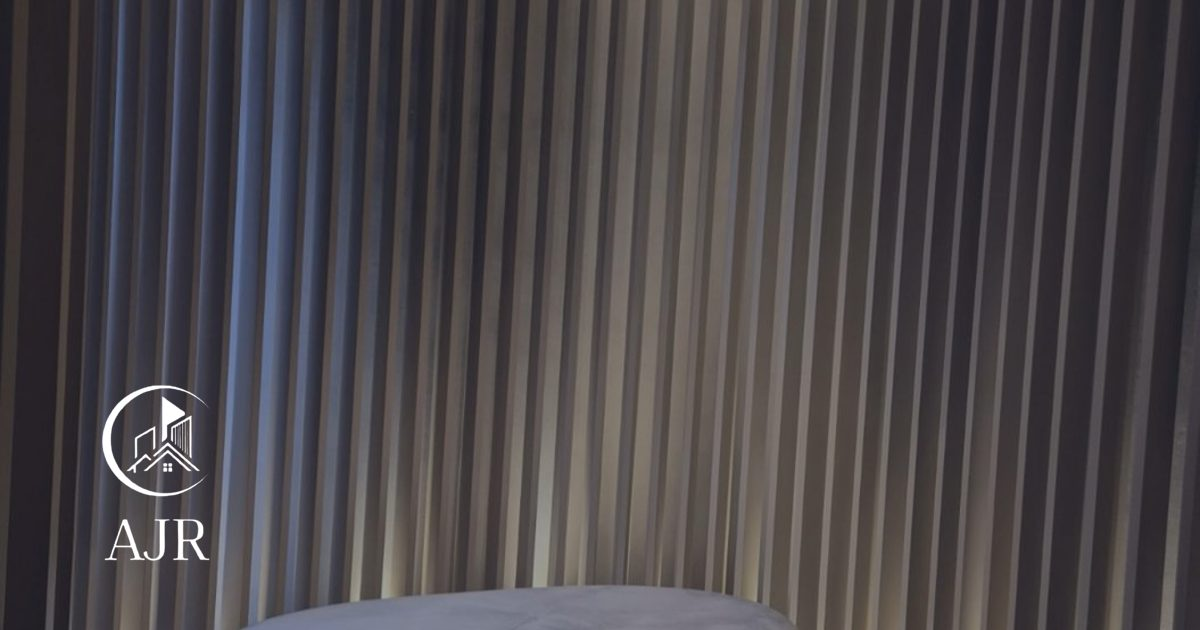
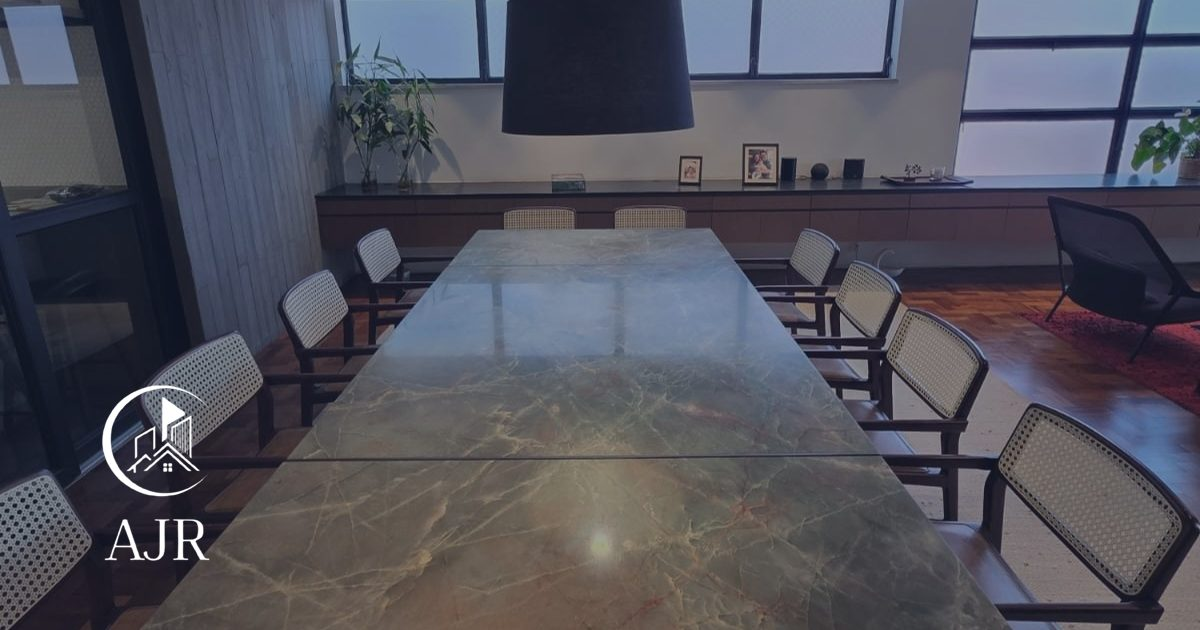
Atualiza LP AJR Marmoraria: novo hero, Melhores projetos, fotos em tela cheia, Apps Script e espaços de GTM/Pixel
Claude-Session: https://claude.ai/code/session_01AKqc3UcPqqKCYndbR5mZL6

diff --git a/assets/css/style.css b/assets/css/style.css
@@ -57,22 +57,26 @@ p{margin:0 0 1em}
 .nav a:hover::after{transform:scaleX(1)}
 
 /* Hero */
-.hero{display:grid;grid-template-columns:minmax(0,1.05fr) minmax(0,.95fr);min-height:100svh;background:var(--navy);color:var(--white)}
-.hero__text{padding:180px clamp(24px,6vw,96px) 72px;display:flex;flex-direction:column;justify-content:center;max-width:760px;margin-left:auto}
-.hero__kicker{color:var(--slate);font-size:.95rem;margin-bottom:1.2em}
-.hero h1{font-size:clamp(2.35rem,5.2vw,4.4rem);font-weight:600;letter-spacing:-.03em;margin-bottom:.45em;text-wrap:balance}
-.hero__lead{font-size:1.1rem;color:rgba(255,255,255,.8);max-width:36em}
-.hero__cta{display:flex;flex-wrap:wrap;gap:12px;margin:1.4em 0 2.6em}
-.hero__facts{display:grid;grid-template-columns:repeat(3,auto);gap:40px;margin:0;padding-top:30px;border-top:1px solid rgba(167,174,193,.28)}
-.hero__facts dt{font-family:var(--ff-head);font-weight:600;font-size:clamp(2rem,3.1vw,2.75rem);line-height:1.05;white-space:nowrap;letter-spacing:-.02em;color:var(--stone);font-variant-numeric:tabular-nums;margin-bottom:6px}
-.hero__facts dd{margin:0;font-size:1rem;color:var(--slate);max-width:15em;line-height:1.4}
-.hero__media{position:relative;margin:0;overflow:hidden;background:var(--navy-deep)}
-.hero__img{width:100%;height:100%;object-fit:cover;transform:scale(1.08);will-change:transform}
-.hero__media figcaption{position:absolute;left:20px;bottom:18px;font-size:.82rem;color:rgba(255,255,255,.85);background:rgba(24,33,58,.55);padding:6px 12px;border-radius:999px;backdrop-filter:blur(4px)}
+/* Hero: foto inteira em moldura, textos embaixo à esquerda */
+.hero{background:var(--navy);color:var(--white);padding:14px;position:relative}
+.hero__frame{position:relative;min-height:calc(100svh - 28px);border-radius:28px;overflow:hidden;display:flex;align-items:flex-end;background:var(--navy-deep);isolation:isolate}
+.hero__media{position:absolute;inset:0;z-index:-2;display:block}
+.hero__img{width:100%;height:100%;object-fit:cover;object-position:50% 50%;transform:scale(1.08);will-change:transform}
+.hero__shade{position:absolute;inset:0;z-index:-1;pointer-events:none;background:linear-gradient(180deg,rgba(18,25,44,.78) 0%,rgba(18,25,44,0) 22%),linear-gradient(90deg,rgba(18,25,44,.82) 0%,rgba(18,25,44,.55) 40%,rgba(18,25,44,0) 68%),linear-gradient(0deg,rgba(18,25,44,.7) 0%,rgba(18,25,44,0) 50%)}
+.hero__text{position:relative;z-index:1;padding:150px clamp(24px,5vw,72px) clamp(28px,4vw,52px);max-width:720px}
+.hero__kicker{color:var(--stone);font-size:.95rem;margin-bottom:1em}
+.hero h1{font-size:clamp(2.2rem,4.2vw,3.7rem);font-weight:600;letter-spacing:-.03em;margin-bottom:.4em;text-wrap:balance;text-shadow:0 2px 24px rgba(0,0,0,.25)}
+.hero__lead{font-size:1.08rem;color:rgba(255,255,255,.86);max-width:36em}
+.hero__cta{display:flex;flex-wrap:wrap;gap:12px;margin:1.1em 0 1.7em}
+.hero__facts{display:grid;grid-template-columns:repeat(3,auto);justify-content:start;gap:40px;margin:0;padding-top:18px;border-top:1px solid rgba(255,255,255,.22)}
+.hero__facts dt{font-family:var(--ff-head);font-weight:600;font-size:clamp(1.9rem,2.8vw,2.6rem);line-height:1.05;white-space:nowrap;letter-spacing:-.02em;color:var(--stone);font-variant-numeric:tabular-nums;margin-bottom:6px}
+.hero__facts dd{margin:0;font-size:.95rem;color:rgba(255,255,255,.75);max-width:15em;line-height:1.4}
+.hero__frame{clip-path:inset(4% 4% 4% 4% round 28px);animation:frameIn 1.3s .05s var(--ease) forwards}
+@keyframes frameIn{to{clip-path:inset(0 0 0 0 round 28px)}}
+.hero__img{animation:heroZoom 2.4s var(--ease)}
+@keyframes heroZoom{from{transform:scale(1.25)}to{transform:scale(1.08)}}
 /* hero load sequence */
-.hero h1,.hero__kicker,.hero__lead,.hero__cta,.hero__facts{opacity:0;transform:translateY(18px);animation:rise .9s var(--ease) forwards}
-.hero__kicker{animation-delay:.05s}.hero h1{animation-delay:.15s}.hero__lead{animation-delay:.3s}.hero__cta{animation-delay:.42s}.hero__facts{animation-delay:.55s}
-.hero__media{clip-path:inset(0 0 0 100%);animation:wipe 1.2s .1s var(--ease) forwards}
+.hero__kicker,.hero__lead,.hero__cta,.hero__facts{opacity:0;transform:translateY(18px);animation:rise .9s var(--ease) forwards}
 @keyframes rise{to{opacity:1;transform:none}}
 @keyframes wipe{to{clip-path:inset(0)}}
 
@@ -225,7 +229,6 @@ p{margin:0 0 1em}
 .js .sec-head h2,.js .detail__txt h2,.js .group__intro h2{background:linear-gradient(currentColor,currentColor) 0 100%/0 2px no-repeat;padding-bottom:6px;transition:background-size 1s .3s var(--ease)}
 .js .reveal.is-in h2,.js .detail__txt.is-in h2,.js .group__intro.is-in h2{background-size:72px 2px}
 .sec-head--light h2{color:var(--white)}
-.hero__img{animation:kenburns 18s ease-in-out infinite alternate}
 @keyframes kenburns{from{object-position:50% 40%}to{object-position:50% 60%}}
 .btn{position:relative;overflow:hidden;isolation:isolate}
 .btn::after{content:"";position:absolute;inset:0;background:linear-gradient(110deg,transparent 30%,rgba(255,255,255,.45) 50%,transparent 70%);transform:translateX(-120%);transition:transform .7s var(--ease);z-index:-1}
@@ -240,7 +243,7 @@ p{margin:0 0 1em}
 .group__steps li::before{transition:transform .4s var(--ease)}
 .group__steps li:hover::before{transform:scale(1.35)}
 .hero__facts>div{opacity:0;transform:translateY(16px);animation:rise .8s var(--ease) forwards}
-.hero__facts>div:nth-child(1){animation-delay:.7s}.hero__facts>div:nth-child(2){animation-delay:.82s}.hero__facts>div:nth-child(3){animation-delay:.94s}
+.hero__facts>div:nth-child(1){animation-delay:1.1s}.hero__facts>div:nth-child(2){animation-delay:1.22s}.hero__facts>div:nth-child(3){animation-delay:1.34s}
 .detail__img img{transition:transform 1.2s var(--ease)}
 .detail__img:hover img{transform:scale(1.04)}
 .scroll-progress{position:fixed;top:0;left:0;height:3px;width:100%;background:var(--stone);transform:scaleX(0);transform-origin:left;z-index:70}
@@ -256,10 +259,6 @@ p{margin:0 0 1em}
 .split .wi{display:inline-block;transform:translateY(110%) rotate(4deg);transform-origin:0 100%;transition:transform 1s var(--ease);transition-delay:calc(var(--wi,0) * 60ms + var(--wd,0ms))}
 .split.is-in .wi{transform:none}
 .hero__glow{position:absolute;left:var(--mx,30%);top:var(--my,40%);width:620px;height:620px;margin:-310px 0 0 -310px;border-radius:50%;background:radial-gradient(circle,rgba(216,204,182,.16),rgba(216,204,182,0) 65%);pointer-events:none;transition:left .6s var(--ease),top .6s var(--ease);z-index:0}
-.hero{position:relative;overflow:hidden}
-.hero__text{position:relative;z-index:1}
-.hero__media{z-index:1}
-.hero__media::after{content:"";position:absolute;inset:0;background:linear-gradient(180deg,rgba(31,43,71,.35),transparent 30%);pointer-events:none}
 
 /* Parallax e tilt nos cards de serviço */
 .piece img{transform:translate3d(0,var(--py,0px),0) scale(var(--ps,1.14))}
@@ -324,7 +323,7 @@ p{margin:0 0 1em}
 .js .story__logo.reveal.is-in{transform:rotate(var(--rot,0deg))}
 
 /* ===== Foto em tela cheia ===== */
-.hero__img,.piece:not(.piece--cta),.detail__img img,.works__view img,.w-img img{cursor:zoom-in}
+.hero__img,.piece:not(.piece--cta),.detail__img img,.proj img,.works__view img,.w-img img{cursor:zoom-in}
 .lb-open,.lb-open body{overflow:hidden}
 .lb{position:fixed;inset:0;z-index:200;background:rgba(16,22,40,.94);backdrop-filter:blur(6px);display:grid;grid-template-columns:auto 1fr auto;align-items:center;gap:12px;padding:max(16px,env(safe-area-inset-top,0px)) max(16px,env(safe-area-inset-right,0px)) max(16px,env(safe-area-inset-bottom,0px)) max(16px,env(safe-area-inset-left,0px));opacity:0;transition:opacity .3s var(--ease)}
 .lb.is-open{opacity:1}
@@ -350,6 +349,30 @@ p{margin:0 0 1em}
   .lb__prev{left:20px}.lb__next{right:20px}
 }
 
+/* ===== Melhores projetos ===== */
+.projects{background:var(--paper);padding:110px 0 100px}
+.projects__grid{display:grid;grid-template-columns:repeat(4,minmax(0,1fr));grid-auto-flow:dense;gap:14px}
+.proj{position:relative;margin:0;overflow:hidden;border-radius:6px;background:var(--mist);aspect-ratio:3/4}
+.proj--big{grid-column:span 2;grid-row:span 2}
+.proj--wide{grid-column:span 2;aspect-ratio:3/2}
+.proj img{width:100%;height:100%;object-fit:cover;transition:transform 1.1s var(--ease),filter .6s var(--ease)}
+.proj::after{content:"";position:absolute;inset:0;background:linear-gradient(180deg,transparent 55%,rgba(24,33,58,.55));opacity:0;transition:opacity .5s var(--ease);pointer-events:none}
+.proj:hover img{transform:scale(1.06)}
+.proj:hover::after{opacity:1}
+.proj.is-extra{display:none}
+.projects.is-open .proj.is-extra{display:block}
+.js .proj img{clip-path:inset(0 0 100% 0);transform:scale(1.18);transition:clip-path 1s var(--ease) var(--d,0ms),transform 1.3s var(--ease) var(--d,0ms),filter .6s var(--ease)}
+.js .proj.is-in img{clip-path:inset(0);transform:scale(1)}
+.js .proj.is-in:hover img{transform:scale(1.06);transition-delay:0s}
+.projects__more{display:flex;justify-content:center;margin-top:40px}
+.projects.is-open .projects__more{display:none}
+@media (max-width:820px){
+  .projects{padding:76px 0}
+  .projects__grid{grid-template-columns:repeat(2,minmax(0,1fr));gap:10px}
+  .proj--big{grid-column:span 2;grid-row:span 1;aspect-ratio:4/5}
+  .proj--wide{grid-column:span 2;aspect-ratio:4/3}
+}
+
 /* Responsive */
 @media (max-width:1024px){
   .nav{display:none}
@@ -359,11 +382,19 @@ p{margin:0 0 1em}
 }
 @media (max-width:820px){
   body{font-size:1rem}
-  .hero{grid-template-columns:1fr;min-height:0}
-  .hero__media{order:-1;height:56svh;min-height:340px}
-  .hero__text{padding:40px 20px 56px;margin:0}
-  .hero__facts{grid-template-columns:1fr 1fr;gap:22px}
-  .hero__facts div:last-child{grid-column:1 / -1}
+  .hero{padding:10px}
+  .hero__frame{min-height:calc(100svh - 20px);border-radius:22px}
+  .hero__shade{background:linear-gradient(180deg,rgba(18,25,44,.7) 0%,rgba(18,25,44,0) 18%),linear-gradient(0deg,rgba(18,25,44,.96) 0%,rgba(18,25,44,.88) 48%,rgba(18,25,44,.25) 72%,rgba(18,25,44,0) 88%)}
+  .hero__img{object-position:42% 0%}
+  .hero__text{padding:260px 18px 24px}
+  .hero h1{font-size:2.05rem}
+  .hero__lead{font-size:.95rem;line-height:1.55}
+  .hero__cta{margin:1em 0 1.3em}
+  .hero__cta .btn{flex:1 1 100%}
+  .hero__cta .btn--ghost{display:none}
+  .hero__facts{grid-template-columns:repeat(3,minmax(0,1fr));gap:10px;padding-top:14px}
+  .hero__facts dt{font-size:1.35rem}
+  .hero__facts dd{font-size:.76rem;line-height:1.3}
   .topbar__in{gap:12px;padding:10px 16px}
   .topbar .btn--line{display:inline-flex;padding:.7em 1.1em;font-size:.86rem;background:var(--stone);color:var(--navy-deep);border-color:var(--stone);white-space:nowrap}
   .topbar:not(.is-solid){background:linear-gradient(180deg,rgba(24,33,58,.6),rgba(24,33,58,0))}
@@ -415,9 +446,10 @@ p{margin:0 0 1em}
   .band__row{transform:none!important}
   .js-quote .qw{color:var(--navy)}
   .hero__glow{display:none}
+  .hero__frame{clip-path:none}
+  .js .proj img{clip-path:none;transform:none}
   .lb__img{opacity:1;transform:none}
   .js .works__list li .w-img{clip-path:none}
   .js .works__list li .w-name,.js .works__list li .w-meta,.js .works__list li .w-area{opacity:1;transform:none}
-  .hero__media{clip-path:none}
   .hero__img{transform:none}
 }

diff --git a/index.html b/index.html
@@ -18,7 +18,7 @@
 <meta property="og:image" content="https://ajrmarmoraria.com.br/assets/img/og-image.jpg">
 <meta property="og:image:width" content="1200">
 <meta property="og:image:height" content="630">
-<meta property="og:image:alt" content="Banco esculpido em pedra com iluminação embutida, obra da AJR">
+<meta property="og:image:alt" content="Cozinha com bancada em pedra preta, projeto da AJR">
 <meta name="twitter:card" content="summary_large_image">
 <meta name="twitter:title" content="AJR Marmoraria | Marmoraria de Alto Padrão em São Paulo">
 <meta name="twitter:description" content="Bancadas, revestimentos, escadas e piscinas em pedra natural. Equipe própria e mais de 30 anos de obra.">
@@ -28,7 +28,8 @@
 <link rel="apple-touch-icon" href="assets/img/icon-180.png">
 <link rel="manifest" href="site.webmanifest">
 
-<link rel="preload" as="image" href="assets/img/hero-banco-pedra.jpg" fetchpriority="high">
+<link rel="preload" as="image" href="assets/img/hero-bancada-preta.jpg" media="(min-width: 821px)" fetchpriority="high">
+<link rel="preload" as="image" href="assets/img/hero-bancada-preta-mobile.jpg" media="(max-width: 820px)" fetchpriority="high">
 <link rel="preconnect" href="https://fonts.googleapis.com">
 <link rel="preconnect" href="https://fonts.gstatic.com" crossorigin>
 <link href="https://fonts.googleapis.com/css2?family=Inter:wght@400;500;600&family=Poppins:wght@500;600;700&display=swap" rel="stylesheet">
@@ -127,6 +128,7 @@ fbq('track', 'PageView');
     </a>
     <nav class="nav" aria-label="Principal">
       <a href="#pedra">Serviços</a>
+      <a href="#projetos">Projetos</a>
       <a href="#obras">Obras</a>
       <a href="#grupo">Grupo AJR</a>
       <a href="#duvidas">Dúvidas</a>
@@ -139,25 +141,28 @@ fbq('track', 'PageView');
 
 <!-- HERO -->
 <section class="hero" id="hero">
-  <span class="hero__glow" aria-hidden="true"></span>
-  <div class="hero__text">
-    <p class="hero__kicker">AJR Marmoraria, do Grupo AJR</p>
-    <h1>Marmoraria de alto padrão perto de você, em São Paulo</h1>
-    <p class="hero__lead">Mármores, granitos, quartzos, quartzitos e lâminas ultracompactas transformados em bancadas, revestimentos, escadas e piscinas. Com equipe própria e a experiência de quem faz obra há mais de 30 anos.</p>
-    <div class="hero__cta">
-      <a class="btn btn--stone js-wa" data-origem="hero" href="#">Pedir orçamento no WhatsApp</a>
-      <a class="btn btn--ghost" href="#obras">Ver obras realizadas</a>
+  <div class="hero__frame">
+    <picture class="hero__media">
+      <source media="(max-width: 820px)" srcset="assets/img/hero-bancada-preta-mobile.jpg" width="1000" height="1215">
+      <img class="hero__img" src="assets/img/hero-bancada-preta.jpg" alt="Cozinha com bancada em pedra preta, cooktop embutido e marcenaria clara" width="2400" height="1538" fetchpriority="high">
+    </picture>
+    <span class="hero__shade" aria-hidden="true"></span>
+    <span class="hero__glow" aria-hidden="true"></span>
+    <div class="hero__text">
+      <p class="hero__kicker">AJR Marmoraria, do Grupo AJR</p>
+      <h1>Marmoraria de alto padrão perto de você, em São Paulo</h1>
+      <p class="hero__lead">Mármores, granitos, quartzos, quartzitos e lâminas ultracompactas transformados em bancadas, revestimentos, escadas e piscinas. Com equipe própria e a experiência de quem faz obra há mais de 30 anos.</p>
+      <div class="hero__cta">
+        <a class="btn btn--stone js-wa" data-origem="hero" href="#">Pedir orçamento no WhatsApp</a>
+        <a class="btn btn--ghost" href="#obras">Ver obras realizadas</a>
+      </div>
+      <dl class="hero__facts">
+        <div><dt><span class="js-count" data-to="30">30</span>+</dt><dd>anos no mercado</dd></div>
+        <div><dt>Própria</dt><dd>equipe de execução</dd></div>
+        <div><dt><span class="js-count" data-to="2600">2.600</span> m²</dt><dd>maior obra apresentada, Colégio Pentágono</dd></div>
+      </dl>
     </div>
-    <dl class="hero__facts">
-      <div><dt><span class="js-count" data-to="30">30</span>+</dt><dd>anos no mercado</dd></div>
-      <div><dt>Própria</dt><dd>equipe de execução</dd></div>
-      <div><dt><span class="js-count" data-to="2600">2.600</span> m²</dt><dd>maior obra apresentada, Colégio Pentágono</dd></div>
-    </dl>
   </div>
-  <figure class="hero__media">
-    <img class="hero__img" src="assets/img/hero-banco-pedra.jpg" alt="Banco esculpido em pedra com iluminação embutida entre painéis ripados" width="1055" height="1400" fetchpriority="high">
-    <figcaption>Café Ó / Casa Ó, Pinheiros</figcaption>
-  </figure>
 </section>
 
 <!-- CLIENTES -->
@@ -242,6 +247,39 @@ fbq('track', 'PageView');
     <p>Cuba esculpida, bordas retas e nicho no mesmo material. É esse cuidado de acabamento que a AJR leva para cada peça, do lavabo à cozinha inteira.</p>
     <p>Qualidade, prazo e resolução de problemas são os três pontos que guiam o nosso trabalho.</p>
     <a class="btn btn--navy js-wa" data-origem="detalhe" href="#">Conversar sobre o meu projeto</a>
+  </div>
+</section>
+
+<!-- MELHORES PROJETOS -->
+<section class="projects" id="projetos">
+  <div class="wrap">
+    <header class="sec-head reveal">
+      <h2>Melhores projetos</h2>
+      <p>Uma seleção de cozinhas, banheiros, lavatórios e acabamentos em pedra feitos pela AJR. Clique em qualquer foto para ver em tela cheia.</p>
+    </header>
+    <div class="projects__grid" id="projGrid">
+      <figure class="proj proj--big"><img src="assets/img/projeto-01.jpg" alt="Cozinha com ilha e bancada em pedra preta com veios brancos" width="825" height="1100" loading="lazy"></figure>
+      <figure class="proj"><img src="assets/img/projeto-02.jpg" alt="Cozinha ampla com ilha revestida em pedra escura" width="825" height="1100" loading="lazy"></figure>
+      <figure class="proj"><img src="assets/img/projeto-03.jpg" alt="Sala ampla com piso em pedra clara e varanda integrada" width="825" height="1100" loading="lazy"></figure>
+      <figure class="proj"><img src="assets/img/projeto-04.jpg" alt="Painel e bancada suspensa em pedra com iluminação embutida" width="825" height="1100" loading="lazy"></figure>
+      <figure class="proj"><img src="assets/img/projeto-05.jpg" alt="Corredor com adega envidraçada e piso em pedra" width="825" height="1100" loading="lazy"></figure>
+      <figure class="proj proj--wide"><img src="assets/img/projeto-06.jpg" alt="Banheiro com piso e parede revestidos em pedra clara e banheira" width="825" height="1100" loading="lazy"></figure>
+      <figure class="proj"><img src="assets/img/projeto-07.jpg" alt="Box de banheiro com paredes revestidas em pedra clara" width="825" height="1100" loading="lazy"></figure>
+      <figure class="proj"><img src="assets/img/projeto-08.jpg" alt="Ilha de cozinha com tampo em pedra clara e cooktop embutido" width="825" height="1100" loading="lazy"></figure>
+      <figure class="proj"><img src="assets/img/projeto-09.jpg" alt="Bancada de banheiro em pedra escura com cuba esculpida" width="825" height="1100" loading="lazy"></figure>
+      <figure class="proj proj--big"><img src="assets/img/projeto-10.jpg" alt="Lavatório esculpido em pedra com cuba integrada" width="825" height="1100" loading="lazy"></figure>
+      <figure class="proj proj--wide"><img src="assets/img/projeto-11.jpg" alt="Cuba esculpida em pedra clara com caimento interno" width="825" height="1100" loading="lazy"></figure>
+      <figure class="proj"><img src="assets/img/projeto-12.jpg" alt="Detalhe de borda em pedra preta texturizada" width="825" height="1100" loading="lazy"></figure>
+      <figure class="proj is-extra"><img src="assets/img/projeto-13.jpg" alt="Detalhe de meia-esquadria em pedra preta texturizada" width="825" height="1100" loading="lazy"></figure>
+      <figure class="proj is-extra"><img src="assets/img/projeto-14.jpg" alt="Detalhe de canto em meia-esquadria na pedra preta" width="825" height="1100" loading="lazy"></figure>
+      <figure class="proj proj--wide is-extra"><img src="assets/img/projeto-15.jpg" alt="Bancada de cozinha em pedra preta" width="825" height="1100" loading="lazy"></figure>
+      <figure class="proj is-extra"><img src="assets/img/projeto-16.jpg" alt="Bancada de cozinha em pedra clara com cuba dupla" width="825" height="1100" loading="lazy"></figure>
+      <figure class="proj is-extra"><img src="assets/img/projeto-17.jpg" alt="Detalhe de cuba dupla em bancada de pedra clara" width="825" height="1100" loading="lazy"></figure>
+      <figure class="proj proj--wide is-extra"><img src="assets/img/projeto-18.jpg" alt="Mesa de jantar longa com tampo em pedra natural verde" width="825" height="1100" loading="lazy"></figure>
+    </div>
+    <div class="projects__more">
+      <button type="button" class="btn btn--navy" id="projMore" aria-controls="projGrid" aria-expanded="false">Ver mais projetos</button>
+    </div>
   </div>
 </section>
 
@@ -431,6 +469,7 @@ fbq('track', 'PageView');
 
 <script src="assets/js/main.js" defer></script>
 <script src="assets/js/motion.js" defer></script>
+<script src="assets/js/projects.js" defer></script>
 <script src="assets/js/lightbox.js" defer></script>
 </body>
 </html>

diff --git a/assets/js/projects.js b/assets/js/projects.js
@@ -1,0 +1,39 @@
+(function () {
+  "use strict";
+  var sec = document.getElementById("projetos");
+  if (!sec) return;
+  var reduce = window.matchMedia("(prefers-reduced-motion: reduce)").matches;
+  var items = sec.querySelectorAll(".proj");
+  var more = document.getElementById("projMore");
+
+  // Cada foto abre de cima pra baixo quando entra na tela, em cascata
+  function watch(list) {
+    if (reduce || !("IntersectionObserver" in window)) {
+      list.forEach(function (el) { el.classList.add("is-in"); });
+      return;
+    }
+    var io = new IntersectionObserver(function (es) {
+      var k = 0;
+      es.forEach(function (e) {
+        if (!e.isIntersecting) return;
+        e.target.style.setProperty("--d", (k++ * 90) + "ms");
+        e.target.classList.add("is-in");
+        io.unobserve(e.target);
+      });
+    }, { threshold: 0.12, rootMargin: "0px 0px -6% 0px" });
+    list.forEach(function (el) { io.observe(el); });
+  }
+  watch(Array.prototype.filter.call(items, function (el) { return !el.classList.contains("is-extra"); }));
+
+  if (more) {
+    more.addEventListener("click", function () {
+      sec.classList.add("is-open");
+      more.setAttribute("aria-expanded", "true");
+      var extra = Array.prototype.slice.call(sec.querySelectorAll(".proj.is-extra"));
+      watch(extra);
+      if (extra[0]) extra[0].querySelector("img").setAttribute("tabindex", "-1");
+      window.dataLayer = window.dataLayer || [];
+      window.dataLayer.push({ event: "ver_mais_projetos" });
+    });
+  }
+})();

diff --git a/assets/js/lightbox.js b/assets/js/lightbox.js
@@ -1,7 +1,7 @@
 (function () {
   "use strict";
   // Fotos que abrem em tela cheia ao clicar
-  var SELECTOR = ".hero__img, .piece img, .detail__img img, .works__view img, .w-img img";
+  var SELECTOR = ".hero__img, .piece img, .detail__img img, .proj img, .works__view img, .w-img img";
   var reduce = window.matchMedia("(prefers-reduced-motion: reduce)").matches;
 
   // Monta o visualizador
